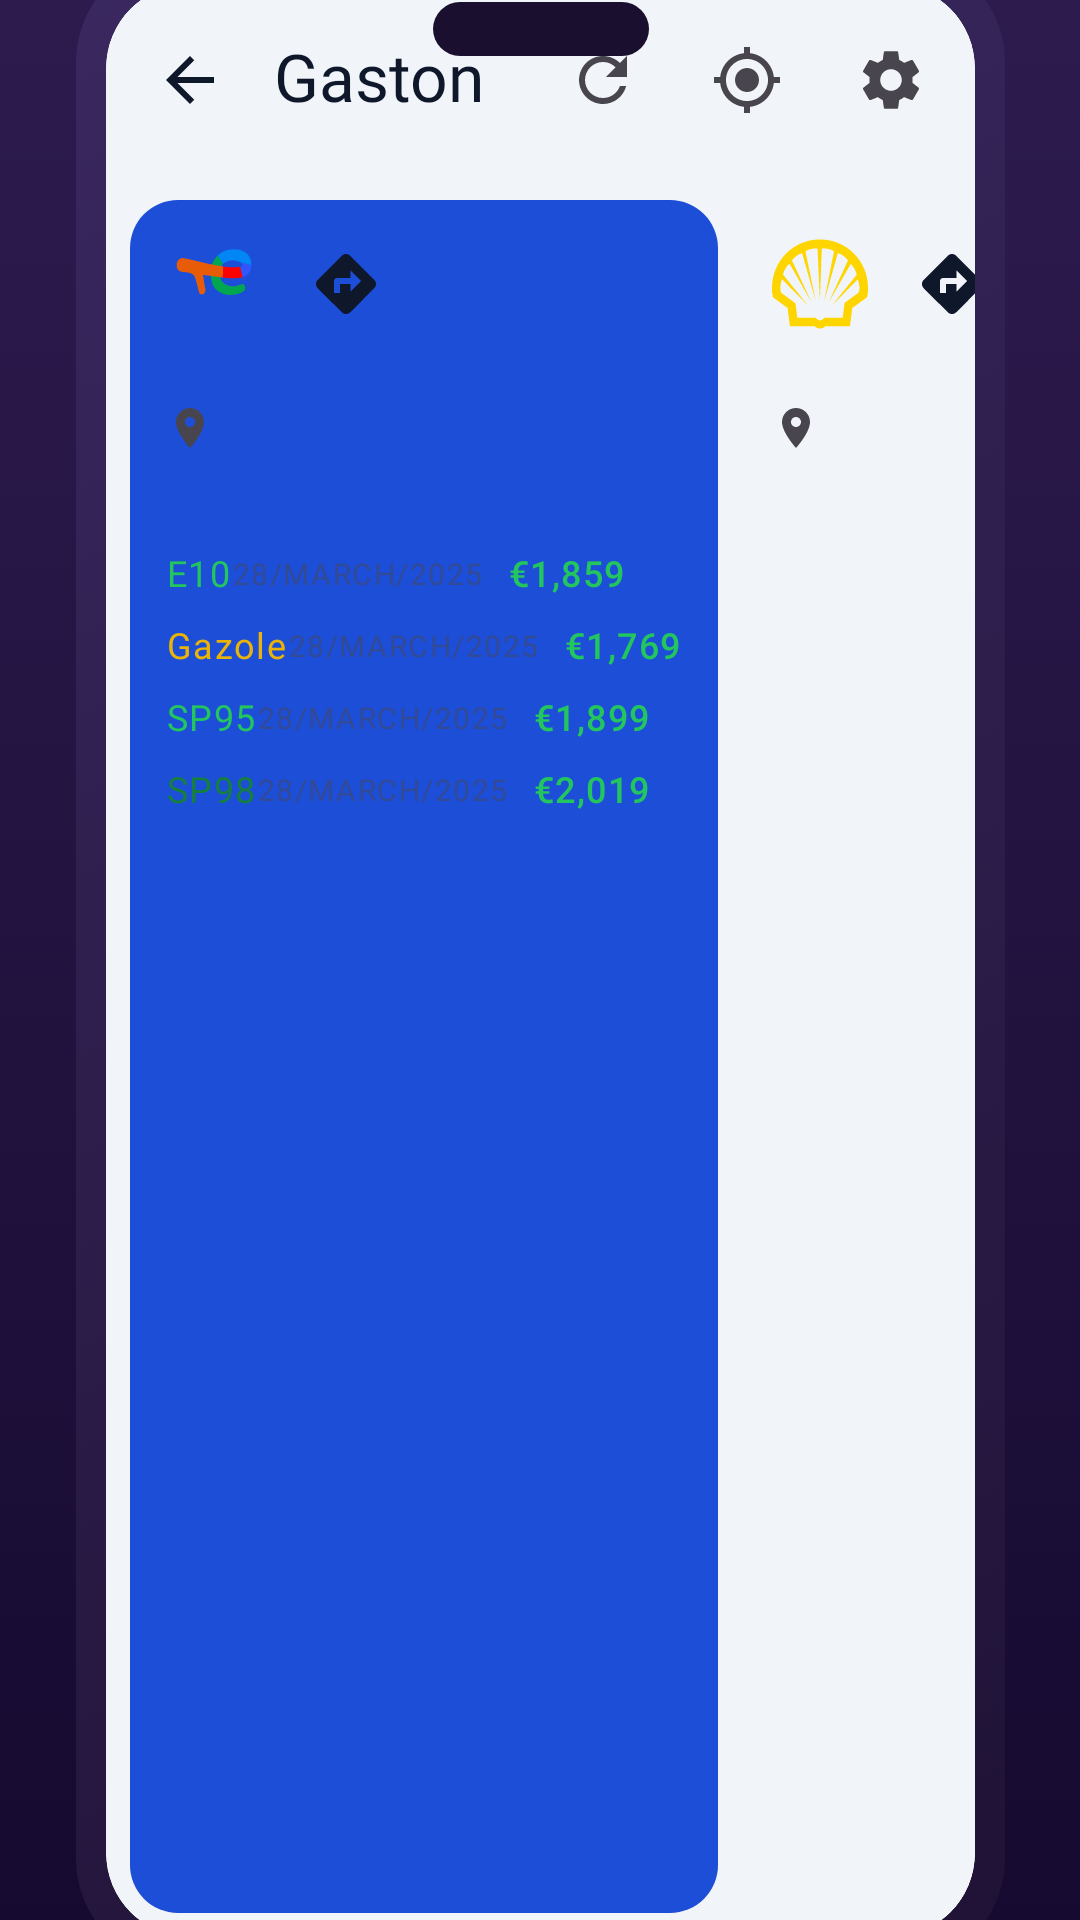
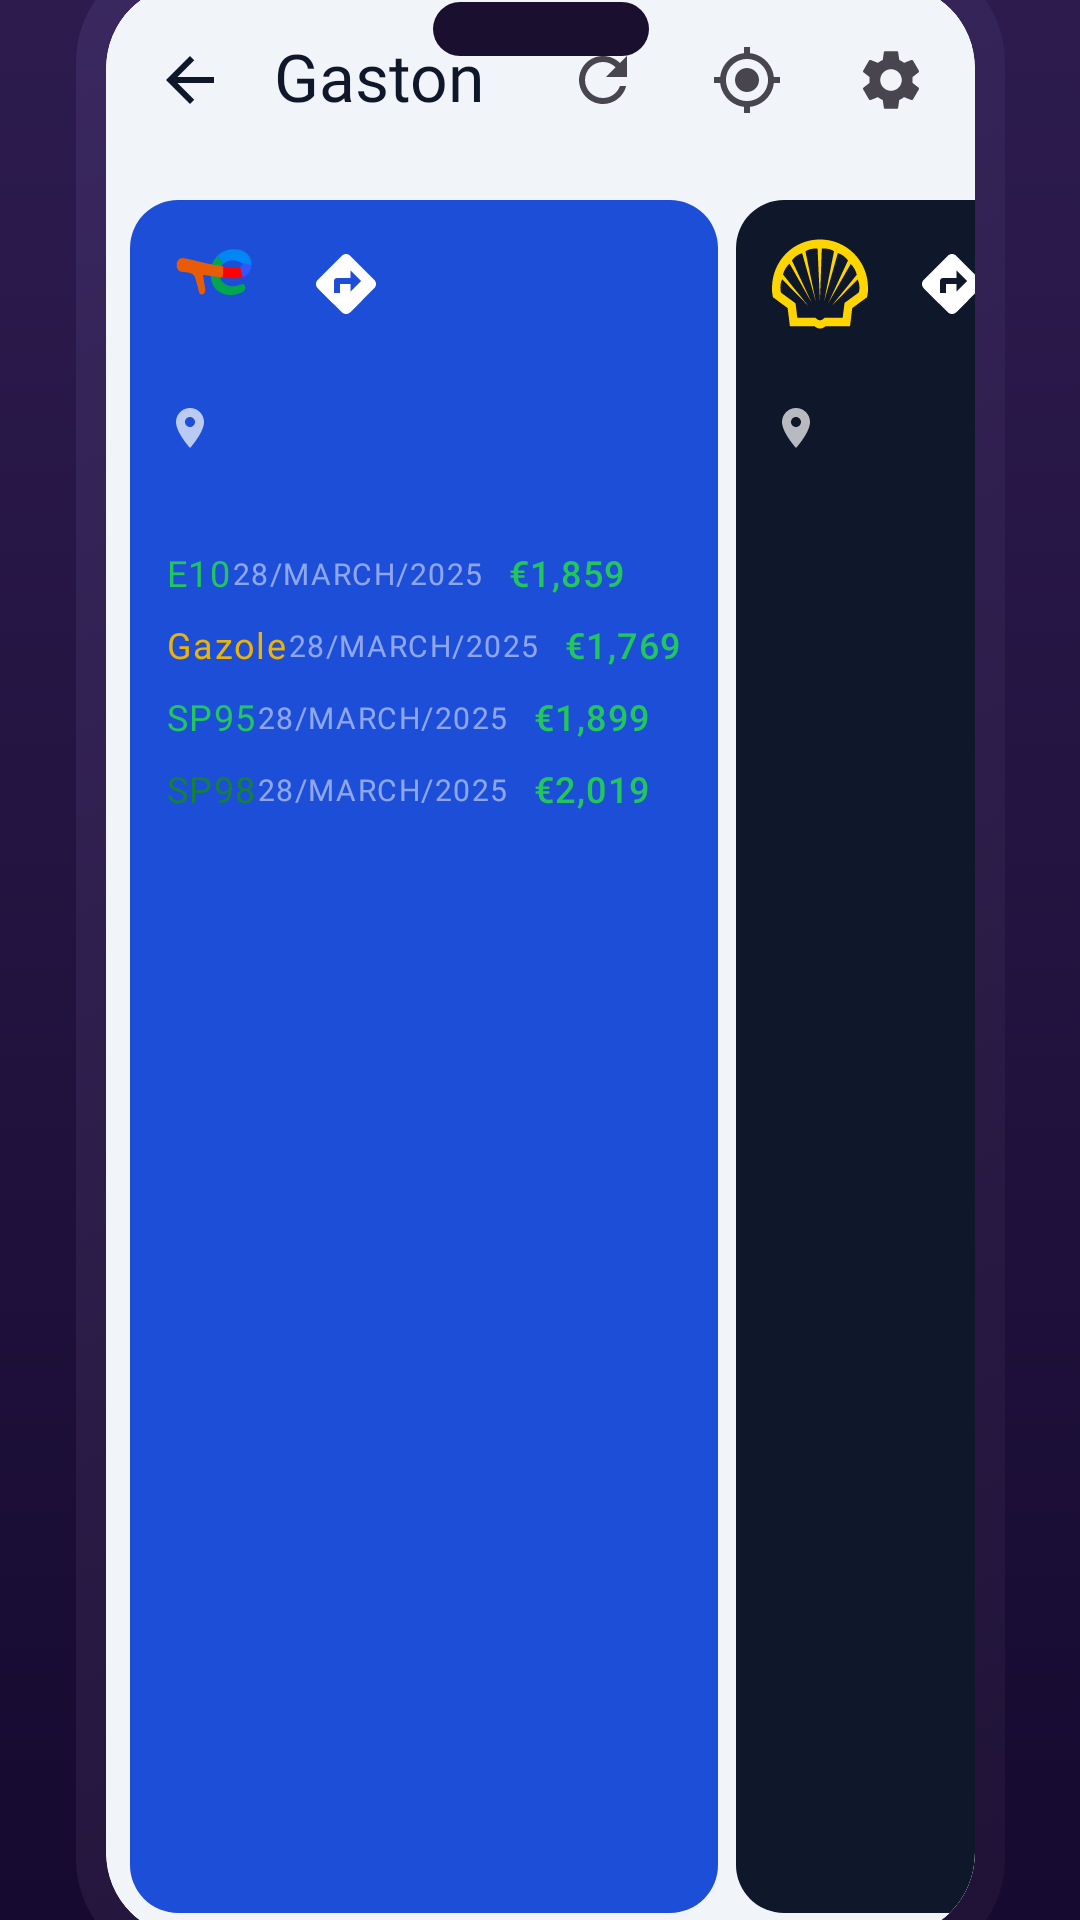
Implement cheapest stations filter FAB and restyle POI cards
- Add `isCheapestFilterActive` state to `MapScreen` to filter map and list to the 5 cheapest stations.
- Update FAB to trigger the cheapest filter, sort by price, and select the cheapest station.
- Reset the filter when the bottom sheet is closed or selection is cleared.
- Reduce height of the POI detail card and bottom sheet.
- Update POI detail card background to dark dark blue (0xFF0F172A) and text to white for better visibility.

diff --git a/androidApp/src/main/kotlin/fr/geoking/gaston/ui/map/PoiDetailCard.kt b/androidApp/src/main/kotlin/fr/geoking/gaston/ui/map/PoiDetailCard.kt
@@ -91,7 +91,7 @@ fun PoiDetailCard(
             ) {
                 Text(
                     text = fp.fuelName,
-                    color = matchColor ?: MaterialTheme.colorScheme.onSurface,
+                    color = matchColor ?: Color.White,
                     fontSize = 12.sp,
                     maxLines = 1,
                     overflow = TextOverflow.Ellipsis
@@ -101,7 +101,7 @@ fun PoiDetailCard(
                     if (updatedAt != null) {
                         Text(
                             text = fr.geoking.gaston.shared.datetime.DateTimeUtils.formatRelativeTime(updatedAt),
-                            color = MaterialTheme.colorScheme.onSurfaceVariant.copy(alpha = 0.5f),
+                            color = Color.White.copy(alpha = 0.5f),
                             fontSize = 10.sp,
                             modifier = Modifier.padding(end = 8.dp)
                         )
@@ -119,9 +119,10 @@ fun PoiDetailCard(
 
     Card(
         modifier = modifier
-            .defaultMinSize(minHeight = 200.dp),
+            .defaultMinSize(minHeight = 160.dp),
         colors = CardDefaults.cardColors(
-            containerColor = if (isSelected) Color(0xFF1D4ED8) else MaterialTheme.colorScheme.surface
+            containerColor = if (isSelected) Color(0xFF1D4ED8) else Color(0xFF0F172A),
+            contentColor = Color.White
         ),
         shape = MaterialTheme.shapes.large
     ) {
@@ -145,13 +146,13 @@ fun PoiDetailCard(
                         painter = painterResource(id = resId),
                         contentDescription = brandInfo?.displayName ?: if (poi.isElectric) stringResource(R.string.charging_station) else stringResource(R.string.gas_station),
                         modifier = Modifier.size(32.dp),
-                        tint = if (brandInfo != null) Color.Unspecified else MaterialTheme.colorScheme.onSurface
+                        tint = if (brandInfo != null) Color.Unspecified else Color.White
                     )
                     Spacer(modifier = Modifier.width(12.dp))
                     Column(modifier = Modifier.weight(1f)) {
                         Text(
                             text = displayTitle,
-                            color = MaterialTheme.colorScheme.onSurface,
+                            color = Color.White,
                             fontSize = 16.sp,
                             fontWeight = FontWeight.SemiBold,
                             maxLines = 1,
@@ -161,7 +162,7 @@ fun PoiDetailCard(
                             if (isGenericName || !displayTitle.startsWith(info.displayName, ignoreCase = true)) {
                                 Text(
                                     text = info.displayName,
-                                    color = MaterialTheme.colorScheme.onSurfaceVariant,
+                                    color = Color.White.copy(alpha = 0.7f),
                                     fontSize = 12.sp,
                                     maxLines = 1,
                                     overflow = TextOverflow.Ellipsis
@@ -181,7 +182,7 @@ fun PoiDetailCard(
                             if (info.isNotBlank()) {
                                 Text(
                                     text = info,
-                                    color = MaterialTheme.colorScheme.onSurfaceVariant,
+                                    color = Color.White.copy(alpha = 0.7f),
                                     fontSize = 11.sp,
                                     maxLines = 1,
                                     overflow = TextOverflow.Ellipsis
@@ -209,7 +210,7 @@ fun PoiDetailCard(
                         Icon(
                             imageVector = Icons.Default.Directions,
                             contentDescription = stringResource(R.string.navigate),
-                            tint = MaterialTheme.colorScheme.onSurface,
+                            tint = Color.White,
                             modifier = Modifier.size(24.dp)
                         )
                     }
@@ -225,14 +226,14 @@ fun PoiDetailCard(
                         imageVector = Icons.Default.LocationOn,
                         contentDescription = null,
                         modifier = Modifier.size(16.dp),
-                        tint = MaterialTheme.colorScheme.onSurfaceVariant
+                        tint = Color.White.copy(alpha = 0.7f)
                     )
                     Spacer(modifier = Modifier.width(8.dp))
                     Column(modifier = Modifier.weight(1f)) {
                         addressLines.take(2).forEach { line ->
                             Text(
                                 text = line,
-                                color = MaterialTheme.colorScheme.onSurface,
+                                color = Color.White,
                                 fontSize = 13.sp,
                                 maxLines = 1,
                                 overflow = TextOverflow.Ellipsis
@@ -261,7 +262,7 @@ fun PoiDetailCard(
                                 } else {
                                     Text(
                                         text = stringResource(R.string.no_fuel_price_details),
-                                        color = MaterialTheme.colorScheme.onSurfaceVariant,
+                                        color = Color.White.copy(alpha = 0.7f),
                                         fontSize = 12.sp
                                     )
                                 }
@@ -288,7 +289,7 @@ fun PoiDetailCard(
                                 if (connectors.isNotEmpty()) {
                                     Text(
                                         text = stringResource(R.string.connectors_label, connectors.joinToString(", ") { BrandHelper.connectorTypeLabel(it) }),
-                                        color = MaterialTheme.colorScheme.onSurfaceVariant,
+                                        color = Color.White.copy(alpha = 0.7f),
                                         fontSize = 11.sp,
                                         maxLines = 2,
                                         overflow = TextOverflow.Ellipsis
@@ -333,7 +334,7 @@ fun PoiDetailCard(
                                     if (flags.isNotBlank()) {
                                         Text(
                                             text = flags,
-                                            color = MaterialTheme.colorScheme.onSurfaceVariant,
+                                            color = Color.White.copy(alpha = 0.7f),
                                             fontSize = 11.sp,
                                             maxLines = 2,
                                             overflow = TextOverflow.Ellipsis

diff --git a/androidApp/src/main/kotlin/fr/geoking/gaston/ui/MapScreen.kt b/androidApp/src/main/kotlin/fr/geoking/gaston/ui/MapScreen.kt
@@ -175,6 +175,7 @@ fun MapScreen(
     var addPoiInitialLng by remember { mutableStateOf<Double?>(null) }
     var addPoiExistingCommunityId by remember { mutableStateOf<String?>(null) }
     var showFavoritesOnly by remember { mutableStateOf(false) }
+    var isCheapestFilterActive by remember { mutableStateOf(false) }
     var showAddressSearch by remember { mutableStateOf(false) }
     var favoriteIds by remember { mutableStateOf<Set<String>>(emptySet()) }
     val billingManager = org.koin.compose.koinInject<fr.geoking.gaston.premium.BillingManager>()
@@ -271,6 +272,29 @@ fun MapScreen(
         )
     }
 
+    val basePois = remember(poisInView, showFavoritesOnly, favoriteIds) {
+        if (showFavoritesOnly && favoriteIds.isNotEmpty()) {
+            poisInView.filter { it.id in favoriteIds }
+        } else {
+            poisInView
+        }
+    }
+
+    val filteredPois = remember(basePois, isCheapestFilterActive, settings) {
+        if (isCheapestFilterActive) {
+            val fuelIds = settings.effectiveMapEnergyFilterIds() - "electric"
+            basePois.mapNotNull { poi ->
+                val minPrice = poi.fuelPrices?.filter { !it.outOfStock && MapPoiFilter.fuelNameToId(it.fuelName) in fuelIds }
+                    ?.minOfOrNull { it.price }
+                if (minPrice != null) Pair(poi, minPrice) else null
+            }.sortedBy { it.second }
+                .take(5)
+                .map { it.first }
+        } else {
+            basePois
+        }
+    }
+
     if (showMapSettings) {
         SettingsScreen(
             settingsManager = settingsManager,
@@ -323,17 +347,18 @@ fun MapScreen(
             palette = palette,
             showAds = showAds,
             floatingActionButton = {
-                if (currentSearchMode == SearchMode.Fuel && poisInView.any { !it.fuelPrices.isNullOrEmpty() }) {
+                if (currentSearchMode == SearchMode.Fuel && basePois.any { !it.fuelPrices.isNullOrEmpty() }) {
                     FloatingActionButton(
                         onClick = {
                             val fuelIds = settings.effectiveMapEnergyFilterIds() - "electric"
-                            val cheapest = poisInView.mapNotNull { poi ->
+                            val cheapest = basePois.mapNotNull { poi ->
                                 val minPrice = poi.fuelPrices?.filter { !it.outOfStock && MapPoiFilter.fuelNameToId(it.fuelName) in fuelIds }
                                     ?.minOfOrNull { it.price }
                                 if (minPrice != null) Pair(poi, minPrice) else null
                             }.minByOrNull { it.second }?.first
 
                             if (cheapest != null) {
+                                isCheapestFilterActive = true
                                 poiSortOrder = fr.geoking.gaston.ui.map.PoiSortOrder.Price
                                 selectedPoi = cheapest
                             }
@@ -481,17 +506,13 @@ fun MapScreen(
                         val effectiveEnergies = settings.effectiveMapEnergyFilterIds()
                         val effectivePowerLevels = settings.effectiveIrvePowerLevels()
 
-                        val poisToShow = if (showFavoritesOnly && favoriteIds.isNotEmpty()) {
-                            poisInView.filter { it.id in favoriteIds }
-                        } else {
-                            poisInView
-                        }
+                        val poisToShow = filteredPois
 
                         val fuelIdsForCheapest = effectiveEnergies - "electric"
                         val top3Prices = remember(poisToShow, fuelIdsForCheapest) {
                             if (fuelIdsForCheapest.isEmpty()) emptyList<Double>()
                             else {
-                                poisToShow.flatMap { poi ->
+                                basePois.flatMap { poi ->
                                     poi.fuelPrices?.filter { !it.outOfStock && MapPoiFilter.fuelNameToId(it.fuelName) in fuelIdsForCheapest }
                                         ?.map { it.price } ?: emptyList()
                                 }.distinct().sorted().take(3)
@@ -594,14 +615,11 @@ fun MapScreen(
                 selectedPoi = it
                 if (it == null) {
                     poiSortOrder = fr.geoking.gaston.ui.map.PoiSortOrder.Distance
+                    isCheapestFilterActive = false
                 }
             },
             sortOrder = poiSortOrder,
-            poisForOverlay = if (showFavoritesOnly && favoriteIds.isNotEmpty()) {
-                poisInView.filter { it.id in favoriteIds }
-            } else {
-                poisInView
-            },
+            poisForOverlay = filteredPois,
             onCenterMapOnPoi = { poi ->
                 scope.launch {
                     cameraPositionState.animate(

diff --git a/androidApp/src/main/kotlin/fr/geoking/gaston/ui/map/PoiOverlayHost.kt b/androidApp/src/main/kotlin/fr/geoking/gaston/ui/map/PoiOverlayHost.kt
@@ -234,7 +234,7 @@ fun PoiOverlayHost(
         ) {
 
             val configuration = LocalConfiguration.current
-            val cardHeight = (configuration.screenHeightDp * 0.5f).dp
+            val cardHeight = (configuration.screenHeightDp * 0.4f).dp
             LazyRow(
                 state = lazyListState,
                 flingBehavior = rememberSnapFlingBehavior(lazyListState = lazyListState),
